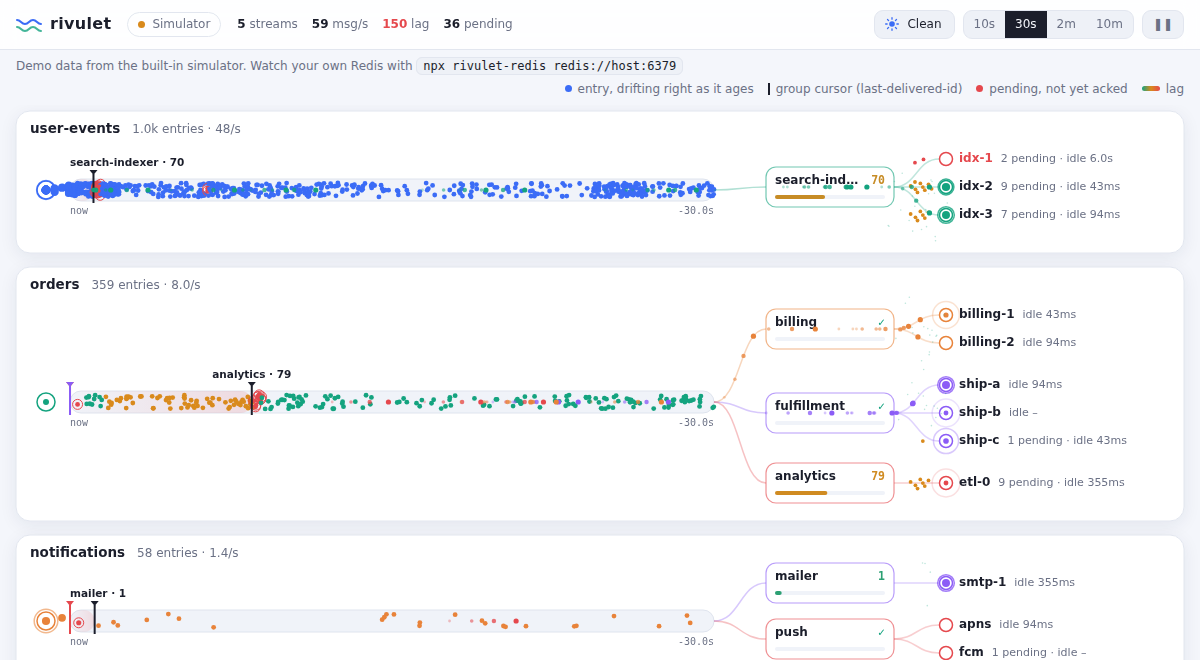
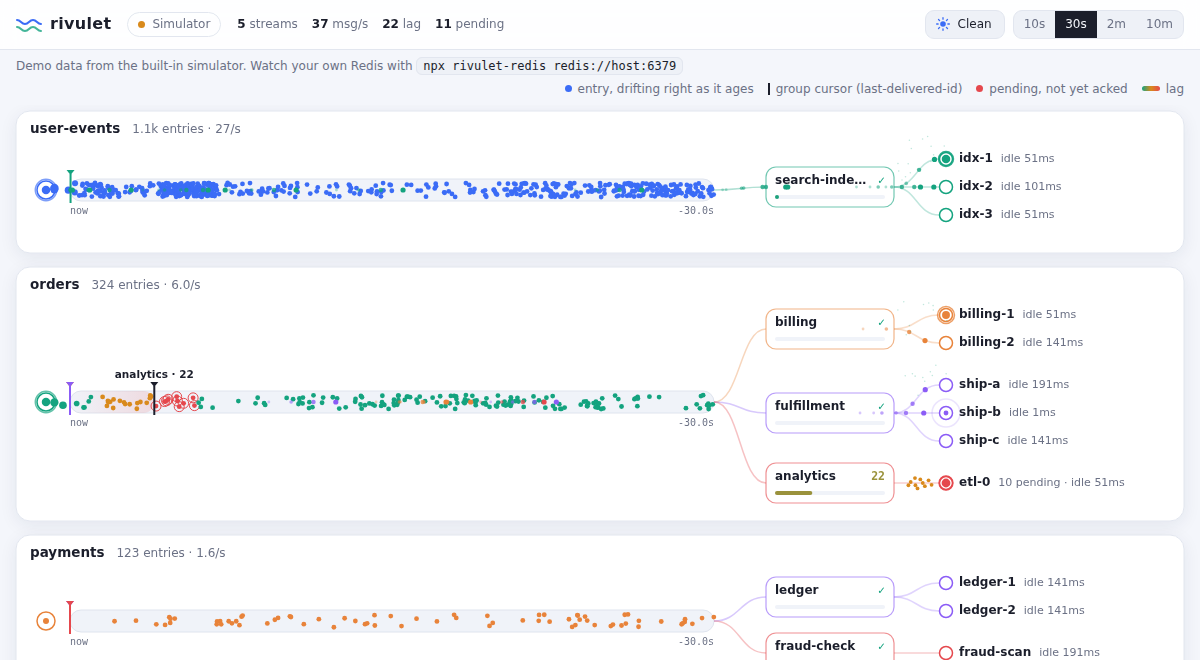
Remove the pause button
Pause only froze the browser's rendering, never Redis, but on a
production dashboard a pause control reads as "pause the queue".
Keep the UI a pure viewer; the stream drawer covers inspecting entries.

diff --git a/public/index.html b/public/index.html
@@ -169,7 +169,6 @@ canvas { display: block; width: 100%; }
     <div class="seg" id="windows" role="group" aria-label="Time window">
       <button data-v="10000">10s</button><button data-v="30000">30s</button><button data-v="120000">2m</button><button data-v="600000">10m</button>
     </div>
-    <button id="pause" class="icon" title="Pause (space)" aria-label="Pause">❚❚</button>
   </div>
 </header>
 <div class="sub">
@@ -261,7 +260,6 @@ const THEMES = {
 let themeName = THEMES[params.get('theme')] ? params.get('theme') : (THEMES[store.get('theme')] ? store.get('theme') : 'neon');
 let T = THEMES[themeName];
 let windowMs = +(store.get('window') || 30000);
-let paused = false, pausedAt = 0;
 
 // Glow sprites, one per color, drawn additively in the neon theme.
 const sprites = new Map();
@@ -285,8 +283,7 @@ const MAX_ENTRIES = 4000, CLUSTER_MAX = 24;
 const model = { mode: 'sim', live: null, offset: 0, synced: false, streams: new Map(), sparks: [], bursts: [], redis: 'up' };
 let streamSeq = 0;
 
-const wallNow = () => (paused ? pausedAt : Date.now());
-const redisNow = () => wallNow() + model.offset;
+const redisNow = () => Date.now() + model.offset;
 
 function ensureStream(key) {
   let S = model.streams.get(key);
@@ -1104,19 +1101,11 @@ function setWindow(ms) {
   windowMs = ms; store.set('window', String(ms));
   for (const b of document.querySelectorAll('#windows button')) b.setAttribute('aria-pressed', String(+b.dataset.v === ms));
 }
-function togglePause() {
-  paused = !paused;
-  if (paused) pausedAt = Date.now();
-  $('#pause').textContent = paused ? '▶' : '❚❚';
-  $('#pause').setAttribute('aria-label', paused ? 'Resume' : 'Pause');
-}
 $('#theme').onclick = cycleTheme;
 $('#windows').onclick = (e) => e.target.dataset.v && setWindow(+e.target.dataset.v);
-$('#pause').onclick = togglePause;
 addEventListener('keydown', (e) => {
   if (e.target.closest?.('input,textarea')) return;
   if (e.key === 'Escape') closeDrawer();
-  else if (e.key === ' ') { e.preventDefault(); togglePause(); }
   else if (e.key === 't') cycleTheme();
 });
 

diff --git a/README.md b/README.md
@@ -29,7 +29,7 @@ It is **read-only by construction**, so it is safe to point at production.
 
 Hover anything for details; click a stream for its most recent entries.
 Three themes, switched with the button in the header (or `t`): **Neon**,
-**Clean** and **Cockpit**. `space` pauses.
+**Clean** and **Cockpit**.
 
 | Neon | Clean | Cockpit |
 | --- | --- | --- |
